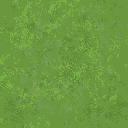
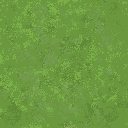
Test grass, camera and shader

diff --git a/Scripts/TestFolder/TestableCamera.cs b/Scripts/TestFolder/TestableCamera.cs
@@ -3,7 +3,8 @@ using System;
 
 public partial class TestableCamera : Camera2D
 {
-	// Called when the node enters the scene tree for the first time.
+	[Export] public bool IsManualMove = true;
+	[Export] public float Speed = 100f;
 	public override void _Ready()
 	{
 	}
@@ -11,5 +12,15 @@ public partial class TestableCamera : Camera2D
 	// Called every frame. 'delta' is the elapsed time since the previous frame.
 	public override void _Process(double delta)
 	{
+		if (IsManualMove) ManualMove((float)delta);
+		
+	}
+
+	void ManualMove(float delta)
+	{
+		Vector2 vector = Input.GetVector("a", "d", "w", "s").Normalized();
+		Position += vector * delta * Speed;
+		Zoom = (Input.IsActionPressed("q")) ? Zoom : Zoom * (1 + delta);
+		Zoom = (Input.IsActionPressed("e")) ? Zoom : Zoom * (1 - delta);
 	}
 }
